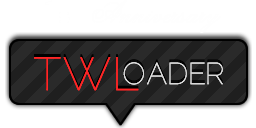
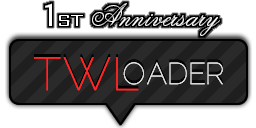
Show WiFi stuck message before more WiFi status checks
ALSO: Make the anniversary text on the banner more noticeable.

Changed region(s): [[0.1562, 0.0, 0.875, 0.3125]]

diff --git a/gui/source/main.cpp b/gui/source/main.cpp
@@ -2274,8 +2274,10 @@ int main(){
 		sfx_back = new sound("romfs:/sounds/back.wav", 2, false);
 	}
 
+	const char* wifiStuckMsg = "Checking WiFi status...\n\nIf you see this for more than 10 seconds,\ntry rebooting and turning off wireless.";
+
 	pp2d_begin_draw(GFX_BOTTOM, GFX_LEFT);
-	pp2d_draw_text(12, 16, 0.5f, 0.5f, WHITE, "If you see this for more than 10 seconds,\ntry rebooting and turning off wireless.");
+	pp2d_draw_text(12, 16, 0.5f, 0.5f, WHITE, wifiStuckMsg);
 	pp2d_end_draw();
 	
 	// Download missing files
@@ -2303,7 +2305,7 @@ int main(){
 	if (logEnabled)	LogFMA("Main.ROM scanning", "Number of GB ROMs on the SD card detected", romsel_counter2gb);
 	
 	pp2d_begin_draw(GFX_BOTTOM, GFX_LEFT);
-	pp2d_draw_text(12, 16, 0.5f, 0.5f, WHITE, " ");
+	pp2d_draw_text(12, 16, 0.5f, 0.5f, WHITE, wifiStuckMsg);
 	pp2d_end_draw();
 
 	// Download box art
@@ -2342,7 +2344,7 @@ int main(){
 	}
 	
 	pp2d_begin_draw(GFX_BOTTOM, GFX_LEFT);
-	pp2d_draw_text(12, 16, 0.5f, 0.5f, WHITE, " ");
+	pp2d_draw_text(12, 16, 0.5f, 0.5f, WHITE, wifiStuckMsg);
 	pp2d_end_draw();
 
 	if (checkWifiStatus()) {
